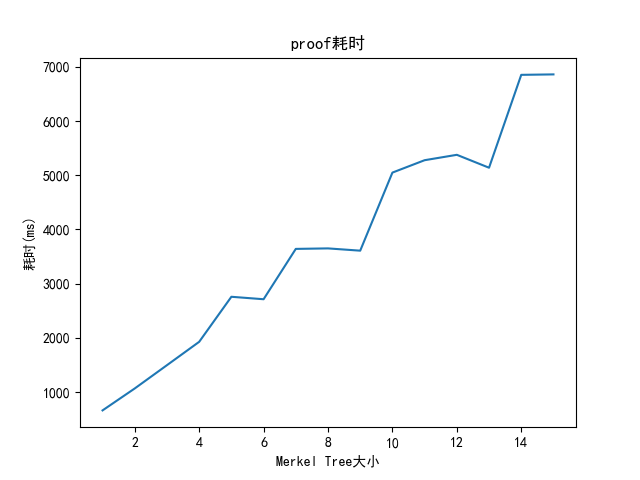
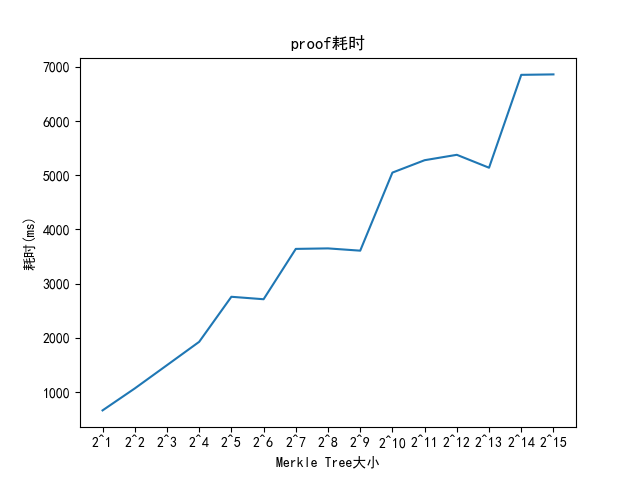
figure 0.1.1

Changed region(s): [[0.1875, 0.9062, 0.9062, 1.0], [0.125, 0.9062, 0.1562, 0.9375]]

diff --git a/benches/plt.py b/benches/plt.py
@@ -4,6 +4,7 @@ import matplotlib.pyplot as plt
 plt.rcParams['font.sans-serif'] = ['SimHei']
 plt.rcParams['axes.unicode_minus'] = False
 
+"""
 with open('result', 'r') as fl:
     lines = fl.readlines()
     for i in range(15):
@@ -12,18 +13,20 @@ with open('result', 'r') as fl:
         print(int(lines[i].split()[-2]) / 10**6)
 
 exit()
+"""
 
 with open('result', 'r') as fl:
     lines = fl.readlines()
     x = []
     y = []
-    for i in range(0, 15):
-#    for i in range(15, 30):
-        x.append(i + 1)
+#    for i in range(0, 15):
+    for i in range(15, 30):
+        x.append('2^%d' % (i -15 + 1))
         y.append(int(lines[i].split()[-2]) / 10**6)
+    plt.ylim((0, 20))
     plt.plot(x, y)
-#    plt.title(u'verify耗时')
-    plt.title(u'proof耗时')
-    plt.xlabel(u'Merkel Tree大小')
+    plt.title(u'verify耗时')
+#    plt.title(u'proof耗时')
+    plt.xlabel(u'Merkle Tree大小')
     plt.ylabel(u'耗时(ms)')
     plt.show()

diff --git a/examples/example.rs b/examples/example.rs
@@ -81,6 +81,7 @@ fn main() {
     println!("已完成");
     let vsize = 1 << 15;
 
+    /*
     let srs =
         Marlin::<BlsFr, MarlinKZG10<Bls12_381, DensePolynomial<BlsFr>>, Blake2s>::universal_setup(
             vsize, vsize, vsize, rng,
@@ -122,4 +123,5 @@ fn main() {
         num_leaves,
         start.elapsed().as_nanos() as u128
     );
+    */
 }
